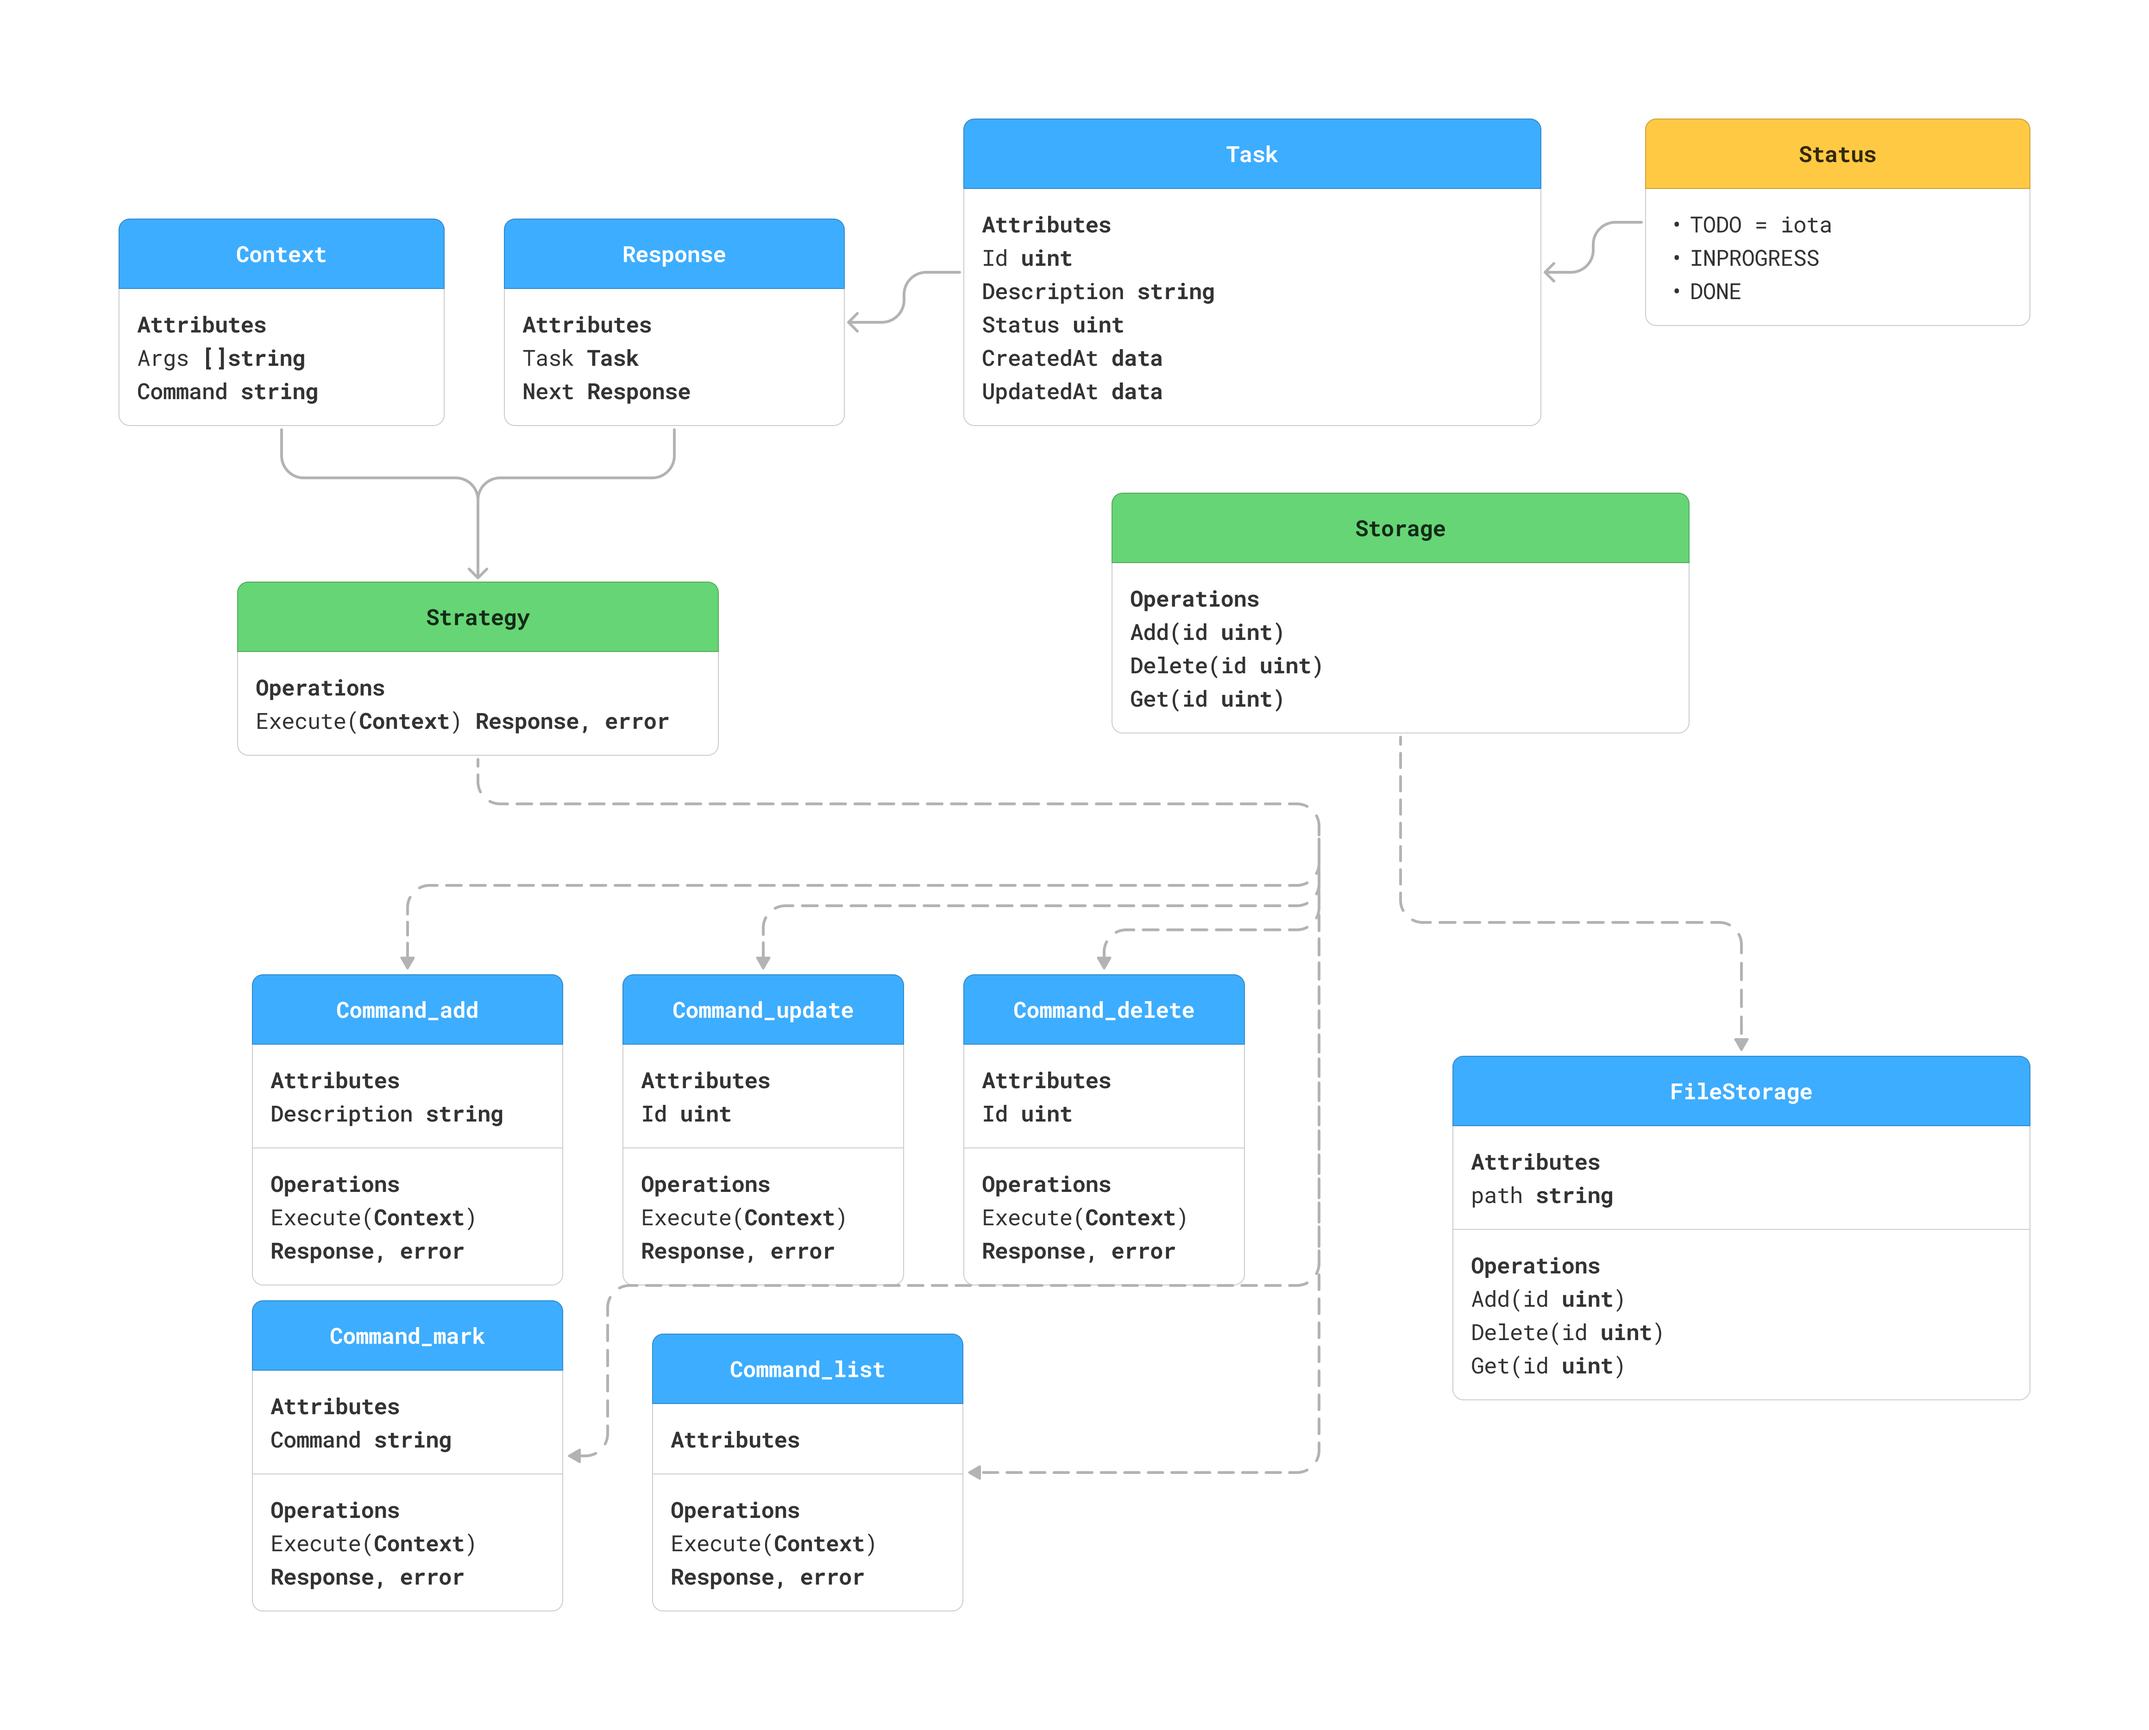
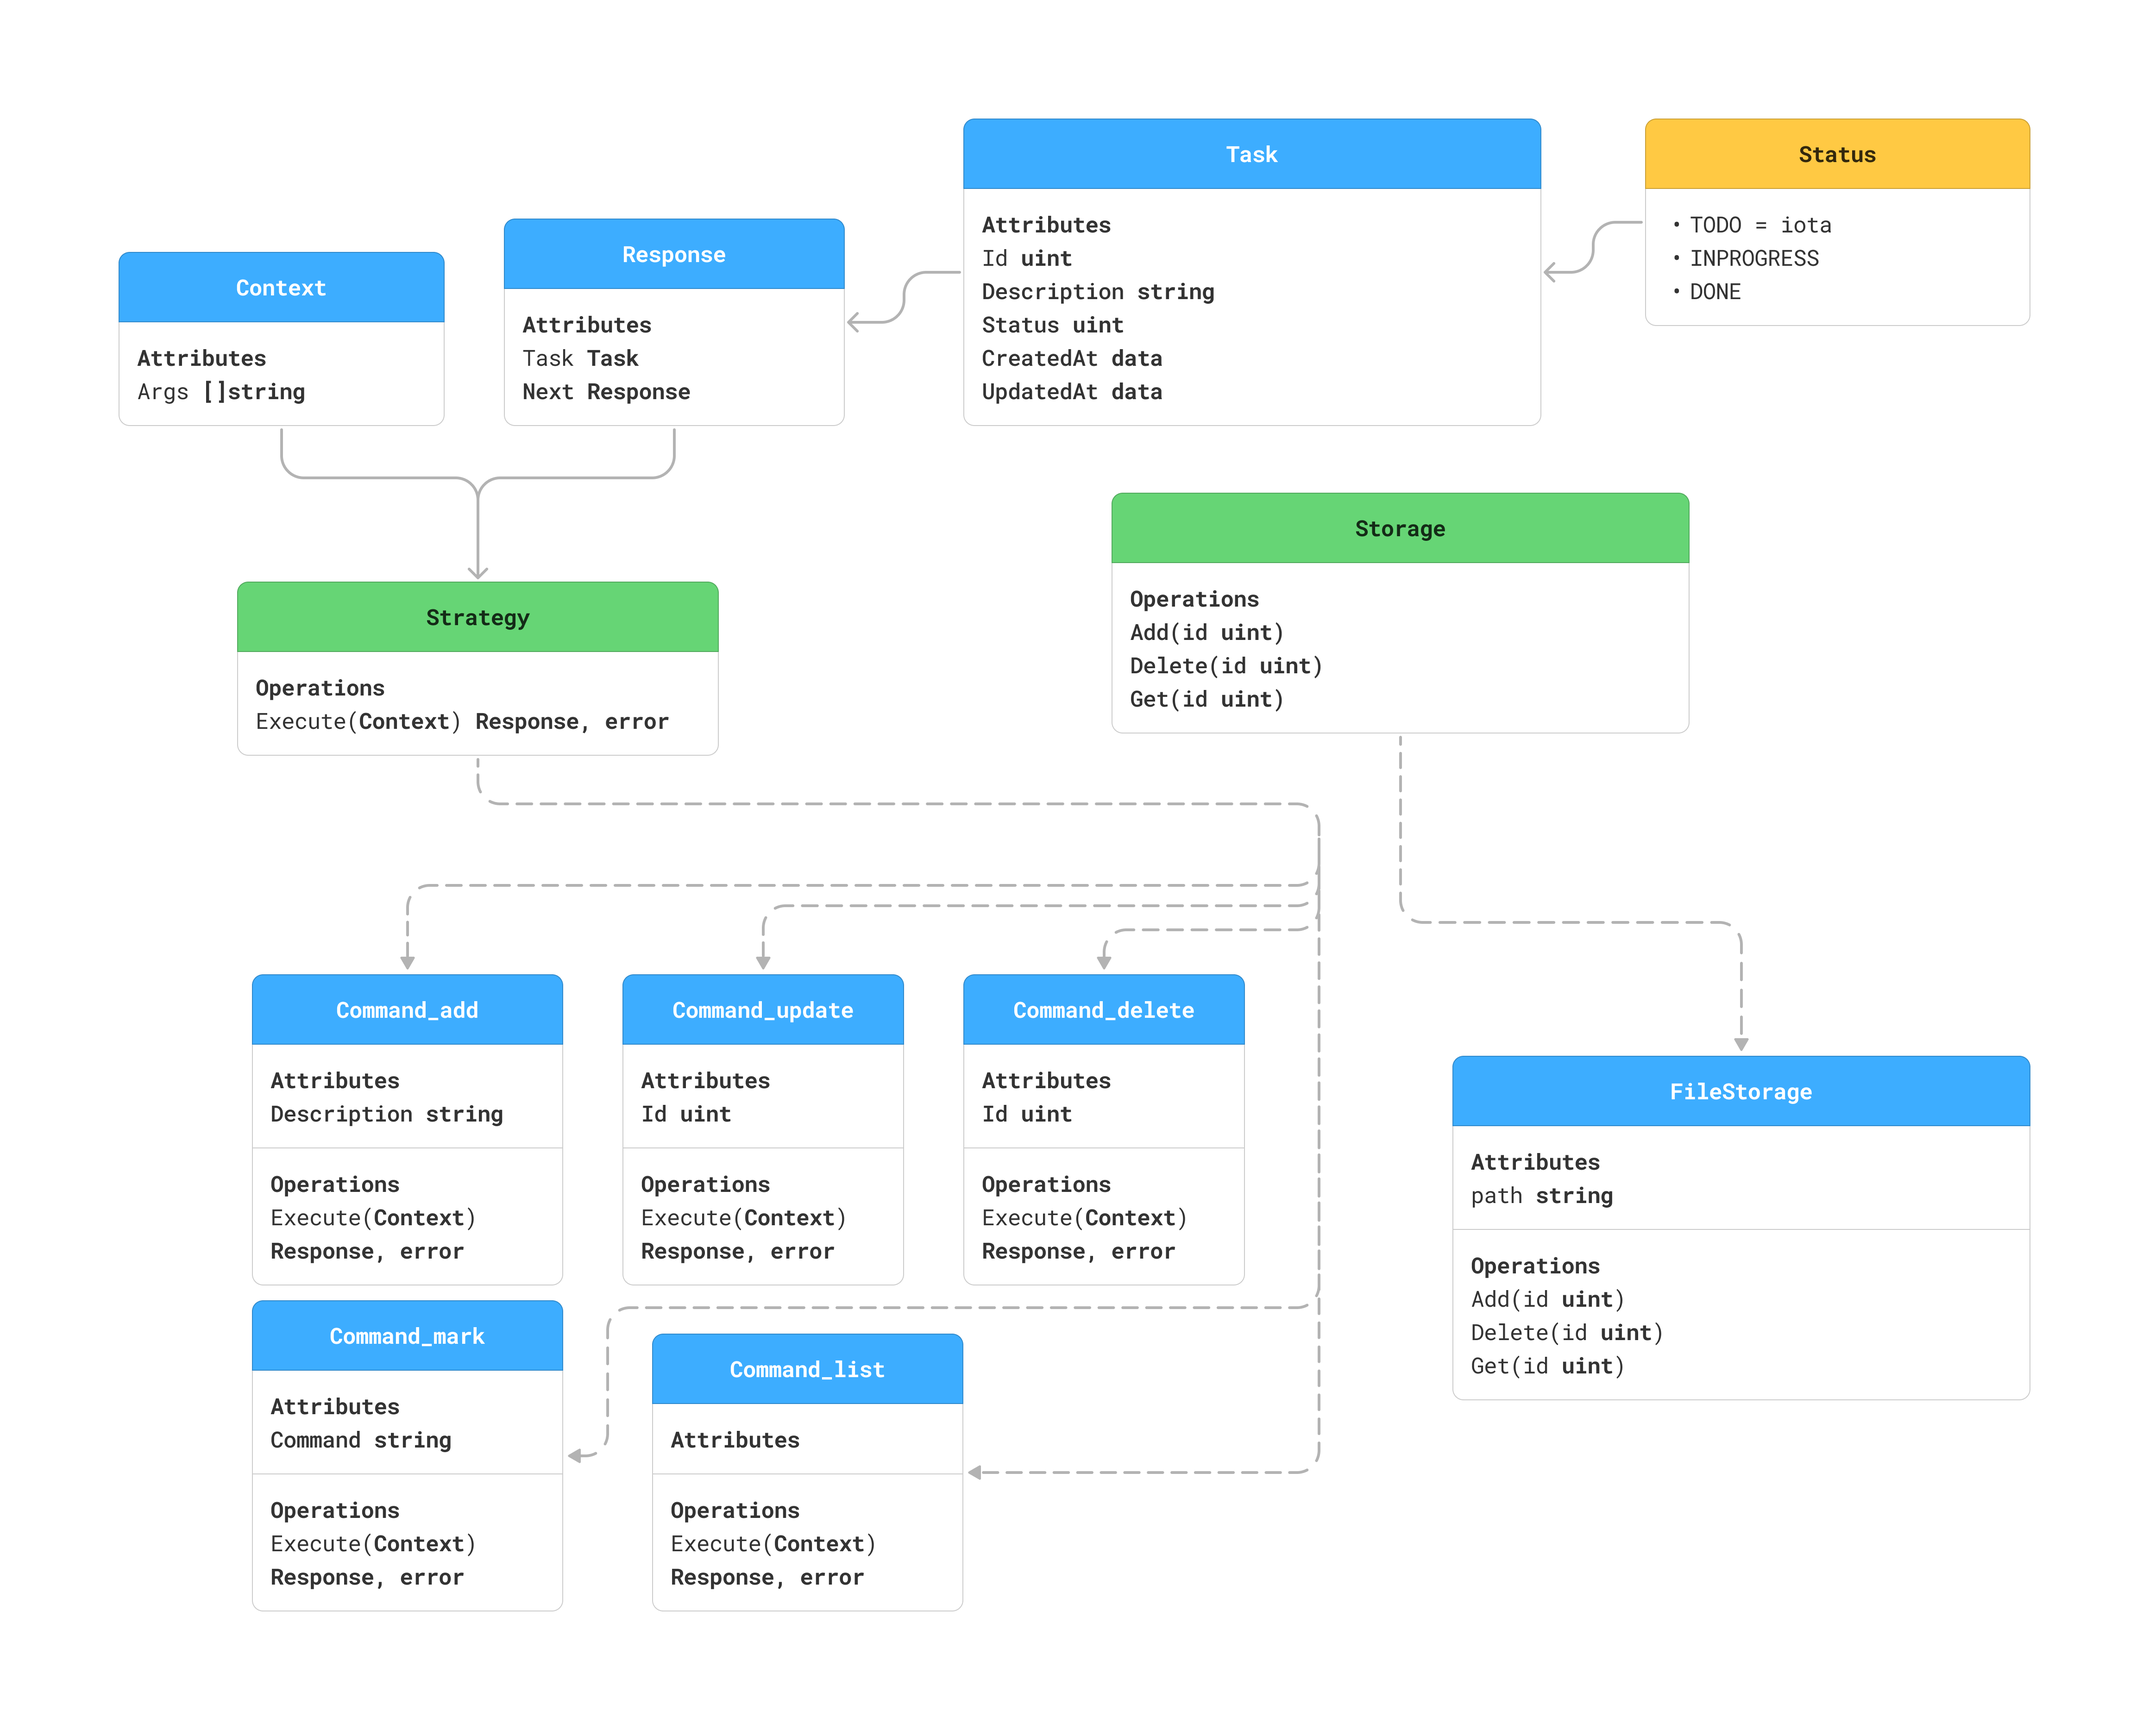
Основа зранения данных

Changed region(s): [[0.0312, 0.1242, 0.2188, 0.2484]]

diff --git a/src/strategy.go b/src/strategy.go
@@ -1,5 +1,10 @@
 package main
 
+import (
+	"fmt"
+	"time"
+)
+
 const (
 	TODO = iota
 	INPROGRESS
@@ -10,15 +15,61 @@ type Task struct {
 	Id          uint
 	Desctiption string
 	Status      uint
-	CreatedAt   int32
-	UpdatedAt   int32
+	CreatedAt   int64
+	UpdatedAt   int64
+}
+
+type Response struct {
+	Task
+	Next *Response
 }
 
 type Context struct {
-	Task
-	Command string
+	Args []string
 }
 
 type Stratrgy interface {
-	Execute(context Context)
+	Execute(context Context) (string, error)
+}
+
+type Command_add struct {
+	path        string
+	description string
+}
+
+func (c Command_add) Execute(context Context) (string, error) {
+	var storage Storage = FileStorage{path: c.path}
+
+	id, err := storage.Add(Task{Desctiption: c.description, Status: TODO,
+		CreatedAt: time.Now().Unix(), UpdatedAt: time.Now().Unix()})
+	if err != nil {
+	}
+
+	return fmt.Sprintf("Task added successfully (ID: %d)", id), err
+}
+
+type Command_update struct {
+	id uint
+}
+
+func (c Command_update) Execute(context Context) (string, error) {
+	return fmt.Sprintf(""), nil
+}
+
+type Command_delete struct{}
+
+func (c Command_delete) Execute(context Context) (string, error) {
+	return fmt.Sprintf(""), nil
+}
+
+type Command_mark struct{}
+
+func (c Command_mark) Execute(context Context) (string, error) {
+	return fmt.Sprintf(""), nil
+}
+
+type Command_list struct{}
+
+func (c Command_list) Execute(context Context) (string, error) {
+	return fmt.Sprintf(""), nil
 }

diff --git a/src/storage.go b/src/storage.go
@@ -1,0 +1,37 @@
+package main
+
+import (
+	"os"
+)
+
+type Storage interface {
+	Add(task Task) (uint, error)
+	Update(id uint, task Task) (Task, error)
+	Delete(id uint) (uint, error)
+	Get(id uint) (Task, error)
+}
+
+type FileStorage struct {
+	path string
+}
+
+func (fs FileStorage) Add(task Task) (uint, error) {
+	file, err := os.OpenFile(fs.path, os.O_RDWR, 0666)
+	if err != nil {
+	}
+	defer file.Close()
+
+	return 0, nil
+}
+
+func (fs FileStorage) Update(id uint, task Task) (Task, error) {
+	return Task{}, nil
+}
+
+func (fs FileStorage) Delete(id uint) (uint, error) {
+	return 0, nil
+}
+
+func (fs FileStorage) Get(id uint) (Task, error) {
+	return Task{}, nil
+}
